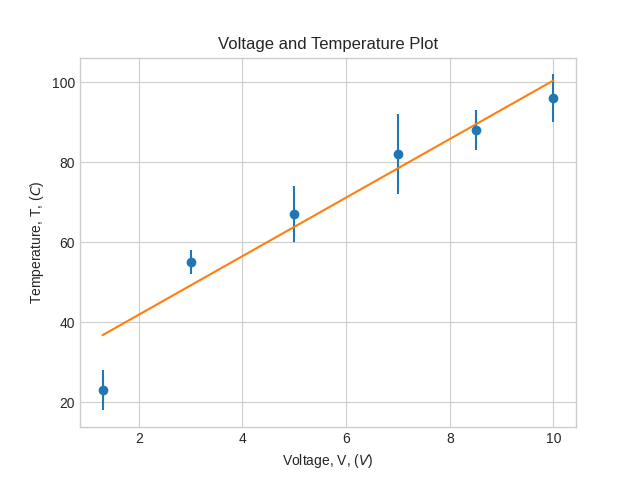
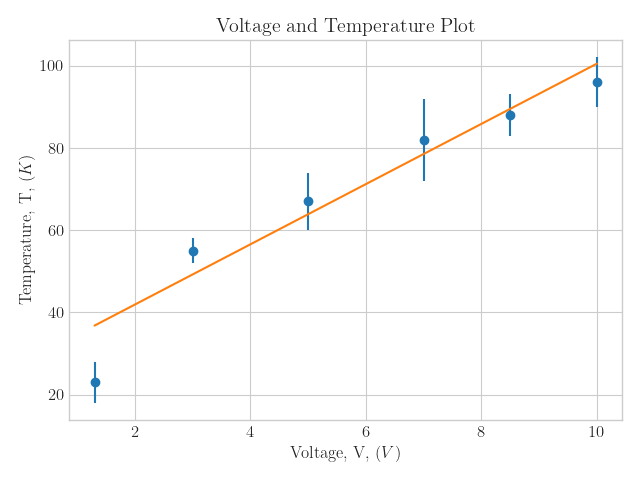
v0.5.0

diff --git a/test/test_linear.py b/test/test_linear.py
@@ -3,15 +3,15 @@ import unittest
 
 # Two MeasurementLists to be used in the rest of the tests
 voltages = MeasurementList([1.3,3,5,7,8.5,10],1,"V")
-temperatures = MeasurementList([23,55,67,82,88,96],[5,3,7,10,5,6],"C")
-
+temperatures = MeasurementList([23,55,67,82,88,96],[5,3,7,10,5,6],"K")
+testset = MeasurementList([1.3,3,5,7,8.5,10],[1,1,2,1,1,1],"")
 # Linear Regression
 eq = LinearRegression(voltages,temperatures)
 
 class TestLinearRegression(unittest.TestCase):
     def test_repr(self):
         self.assertEqual(
-            LinearRegression.__repr__(eq), "m = 7 ± 1 V^{-1} C\nc = 27 ± 7 C"
+            LinearRegression.__repr__(eq), "m = 7 ± 1 V^{-1} K\nc = 27 ± 7 K"
         )
 
 # Template file creation is hard to test as it involves file creation, so this portion is tested manually.
@@ -19,16 +19,16 @@ class TestLinearRegression(unittest.TestCase):
 doc = Document(title = "Lab Report Template", author = "CianLM")
 
 doc.table(
-    nameandsymbol = ["Voltage, V","Temperature, T"],
-    data = [voltages,temperatures],
+    nameandsymbol = ["Voltage, V","Temperature, T", 'testset'],
+    data = [voltages,temperatures,testset],
     # headers = ["Variables","Data"],
     caption = "Voltage and Temperature Correlation"
 )
 
 doc.table(
-    nameandsymbol = ["Voltage, V", "Temperature, T"],
-    data = [voltages,temperatures**2],
-    caption = "Voltage and Temperature Sqaured Correlation",
+    nameandsymbol = ["Voltage, V", "Temperature, T", "Testset"],
+    data = [voltages,temperatures,testset],
+    caption = "Voltage and Temperature Squared Correlation",
     style = "upright"
 )
 

diff --git a/labtex/document.py b/labtex/document.py
@@ -79,7 +79,8 @@ class Document:
     
     def __init__(self,title : str,author : str):
         "Initialise a LaTeX document with an title and an author."
-
+        self.title = title
+        self.author = author
         self.document = Document.template.replace("!title",title).replace("!author",author)
         self.tablenumber = 0
         self.graphnumber = 0
@@ -98,12 +99,13 @@ class Document:
 
         table = Document.tabletemplates["default"]
         self.tablenumber += 1
+        print(f"labtex: Adding table {self.tablenumber} to Document '{self.title}'.")
 
         table = table.replace("!tablenumber", str(self.tablenumber))
         table = table.replace("!caption",caption)
 
         if not (all(isinstance(line, MeasurementList) for line in data)):
-            raise Exception("Data Error: Data should be a list of Measurement Lists.")
+            raise Exception("Data Error: Data should be a list of MeasurementLists.")
 
         if(style == "sideways"):
             # table = table.replace("!columns", "*{" + str(1+columns) + "}c" )
@@ -174,7 +176,7 @@ class Document:
             os.makedirs(Document.graphfolder)
         plt = eq.plot(title,xnameandsymbol,ynameandsymbol,showline,self.graphnumber)
         plt.savefig(Document.graphfolder + filename)
-        print(f"labtex: Wrote to '{Document.graphfolder + filename}.png'.")
+        print(f"labtex: Wrote to '{Document.graphfolder + filename}.png' and added to Document '{self.title}'.")
 
     def save(self,filename: str ="labdocument",overwrite: bool = False):
         "Save the document to 'filename.tex'."

diff --git a/labtex/measurementlist.py b/labtex/measurementlist.py
@@ -58,8 +58,13 @@ class MeasurementList:
                 if(not novalues):
                     tableprint += f"& { r' & '.join([ str(round(round(measurement.value),sigdigits)) for measurement in self ] ) }"
         else:
+            if(not nounits):
+                tableprint += f", ({self.unit}) " if not Unit.unitless(self.unit) else ""
             if(not novalues):
-                tableprint += f"& ${ r'$ & $'.join([str(measurement)[:-len(str(measurement.unit))] for measurement in self ] ) }$"
+                if(len(str(self.unit)) == 0): # 0 breaks python indexing
+                    tableprint += f"& ${ r'$ & $'.join([str(measurement) for measurement in self ] ) }$"
+                else:
+                    tableprint += f"& ${ r'$ & $'.join([str(measurement)[:-len(str(measurement.unit))] for measurement in self ] ) }$"
 
         return tableprint.replace('±','\pm').replace('×','\\times')
 

diff --git a/labtex/linear.py b/labtex/linear.py
@@ -5,7 +5,15 @@ import matplotlib.pyplot as plt
 from numpy import array
 
 plt.style.use('seaborn-whitegrid')
-
+plt.rcParams.update({
+    "text.usetex" : True,
+    "font.family" : "serif",
+    "font.size" : 12,
+    "figure.autolayout" : True,
+    "legend.framealpha": 1.0,
+    # resolution
+    # "figure.dpi" : 200,
+})
 
 class LinearRegression:
     "Linearly regress two MeasurementLists."

diff --git a/setup.py b/setup.py
@@ -5,7 +5,7 @@ import pathlib
 DIR = pathlib.Path(__file__).parent
 README = (DIR / 'README.md').read_text()
 
-VERSION = '0.4.3'
+VERSION = '0.5.0'
 DESCRIPTION = 'Lab report data analysis and LaTeX file generation'
 
 setuptools.setup(

diff --git a/labtex/__init__.py b/labtex/__init__.py
@@ -5,4 +5,4 @@ from labtex.linear import LinearRegression
 from labtex.document import Document
 
 
-__version__ = '0.4.3'
+__version__ = '0.5.0'

diff --git a/CHANGELOG.md b/CHANGELOG.md
@@ -2,14 +2,14 @@
 
 # Looking Forward
 
-- Computer Modern Plot font
 - CSV data import workflow
 - Numpy input integration
 - Interface with statistical packages for non-linear regression
-- Printing latex for the error propagation done
-- Documentation
 
-
+# v0.5.0
+- New extensive ![Documentation](https://www.cianlm.dev/labtex)! Examples and guides to be added in future updates.
+- Improved plot appearance with latex-style font
+- Fixed table bugs when dimensionless quantities are involved
 # v0.4.3
 - Fixed negative error propagation bug
 # v0.4.1

diff --git a/README.md b/README.md
@@ -1,5 +1,6 @@
 # labtex
 
+New extensive ![Documentation](https://www.cianlm.dev/labtex)!
 ## Purpose
 
 This package provides a single solution to repetitive analysis tasks in a lab environment. If you are doing error propagation, linear regression or LaTeX tables/figures manually, this package automates the process.
